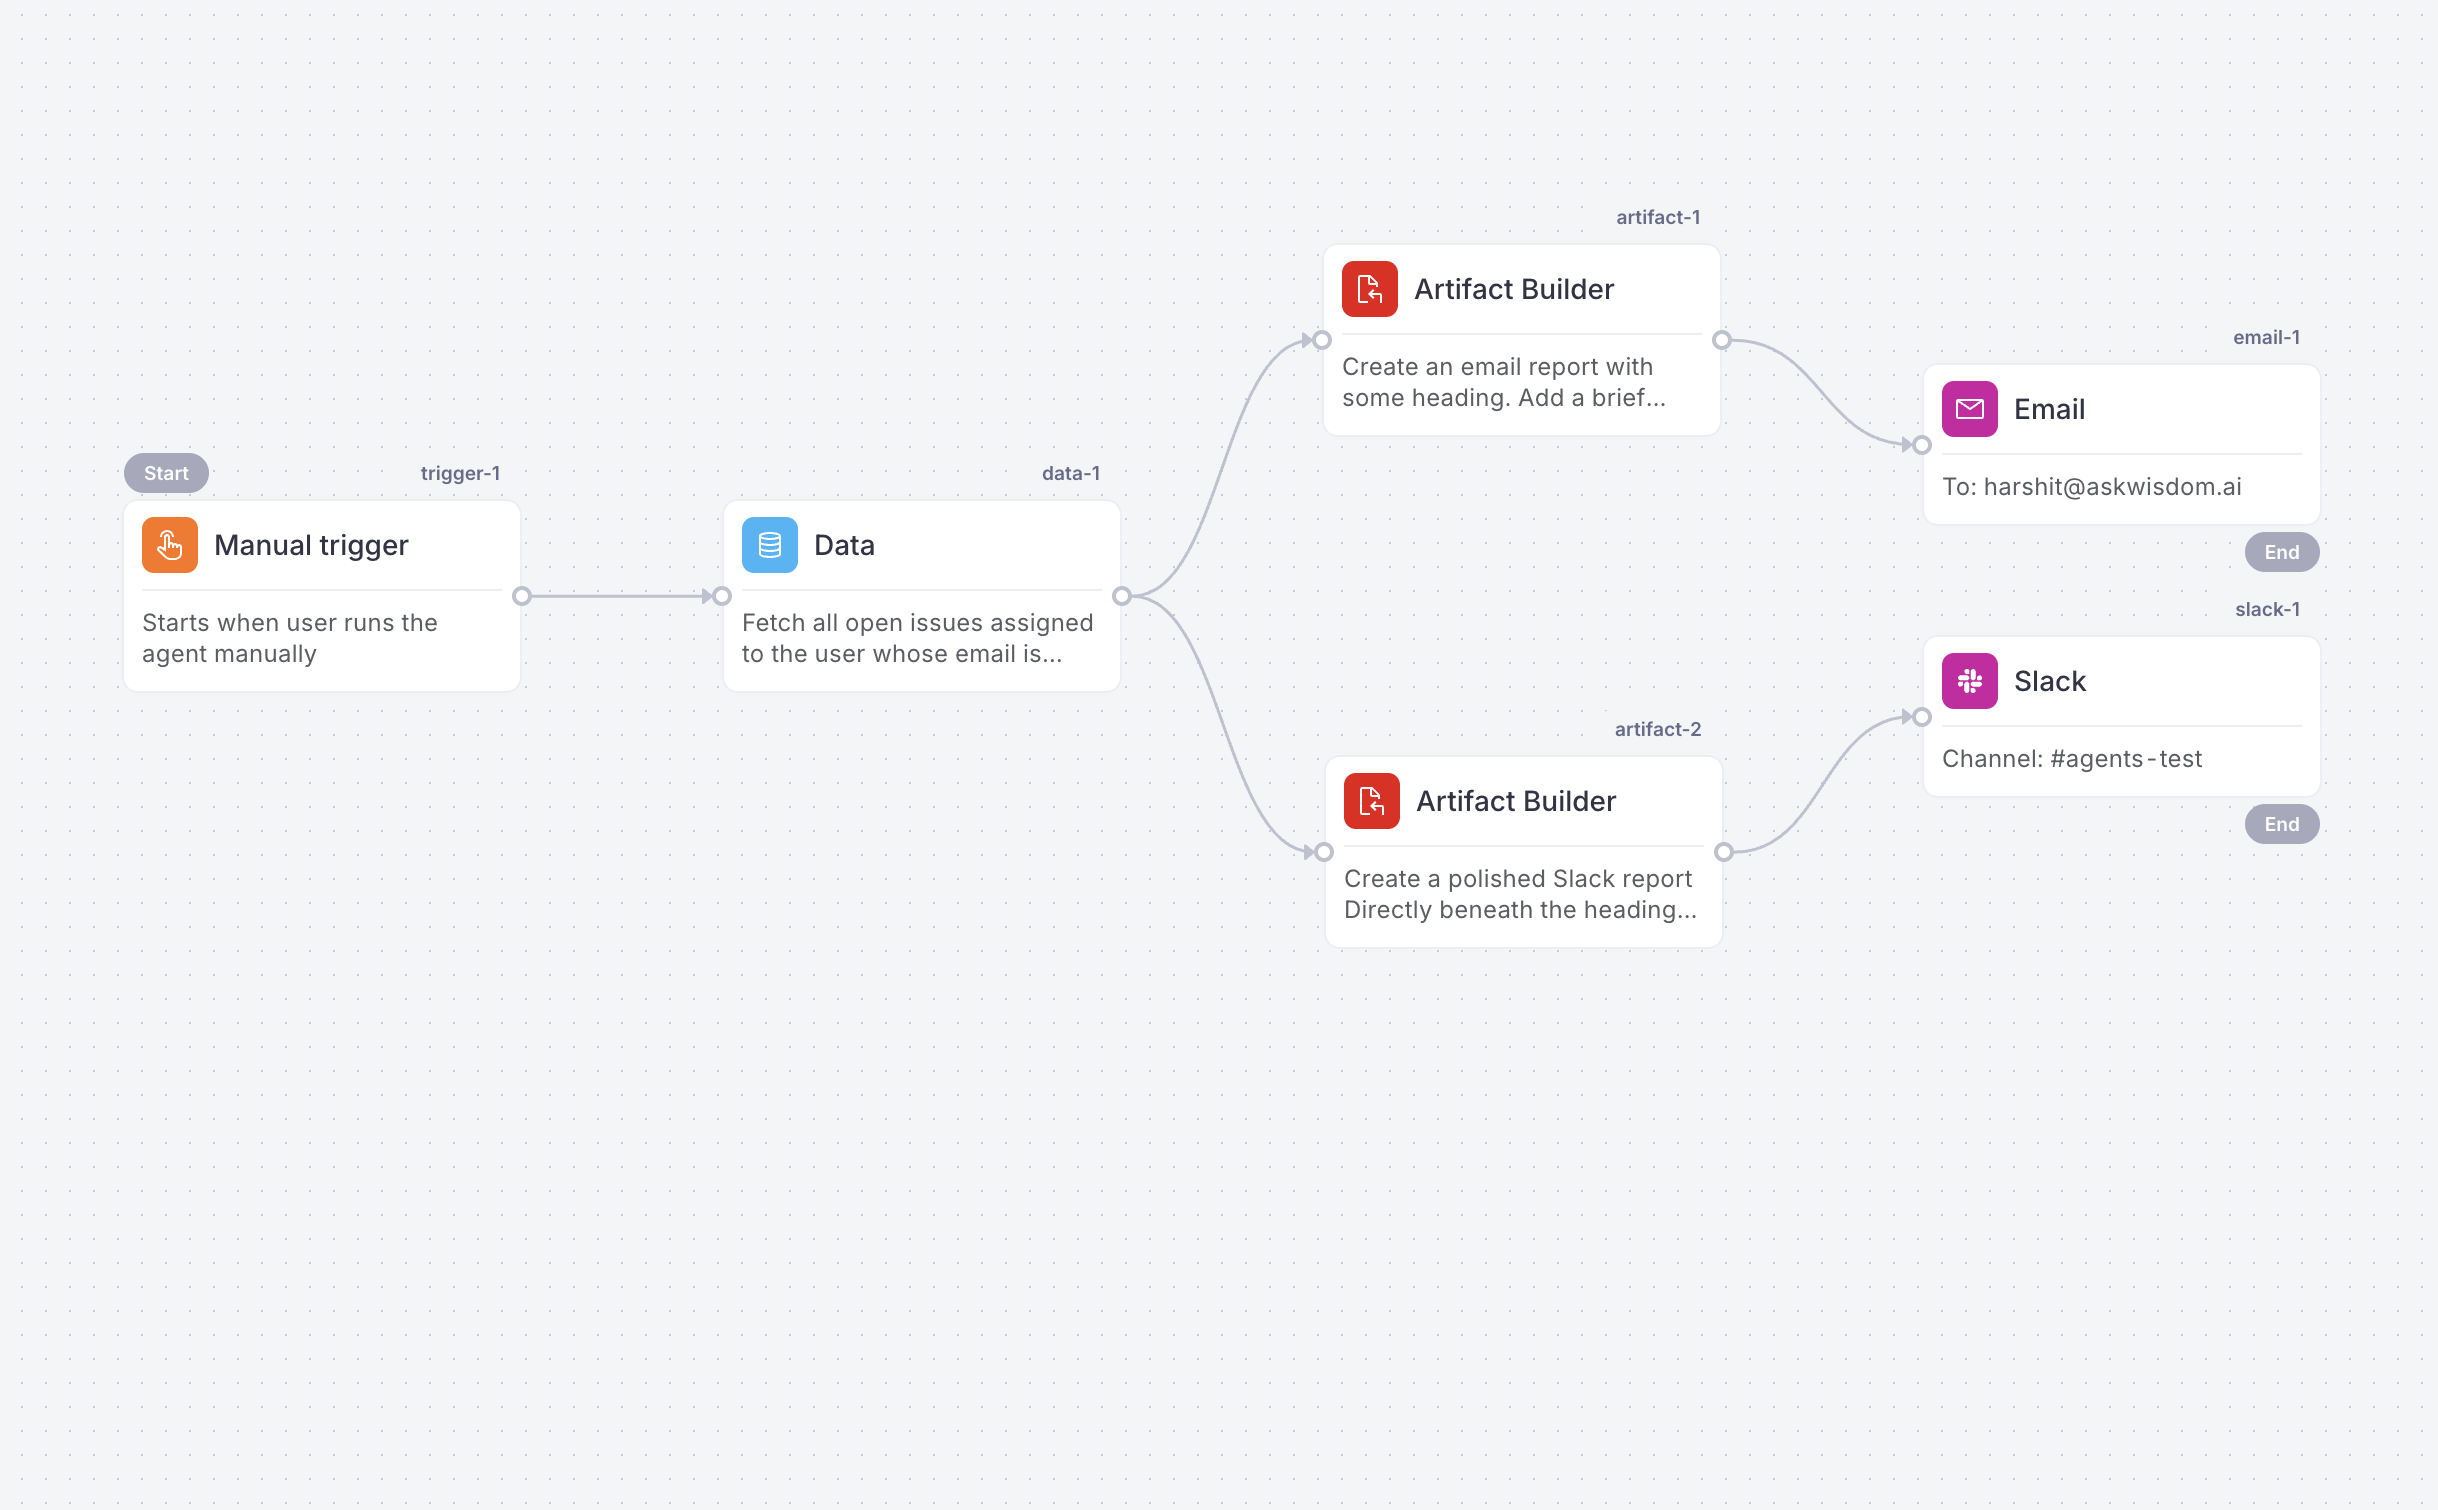
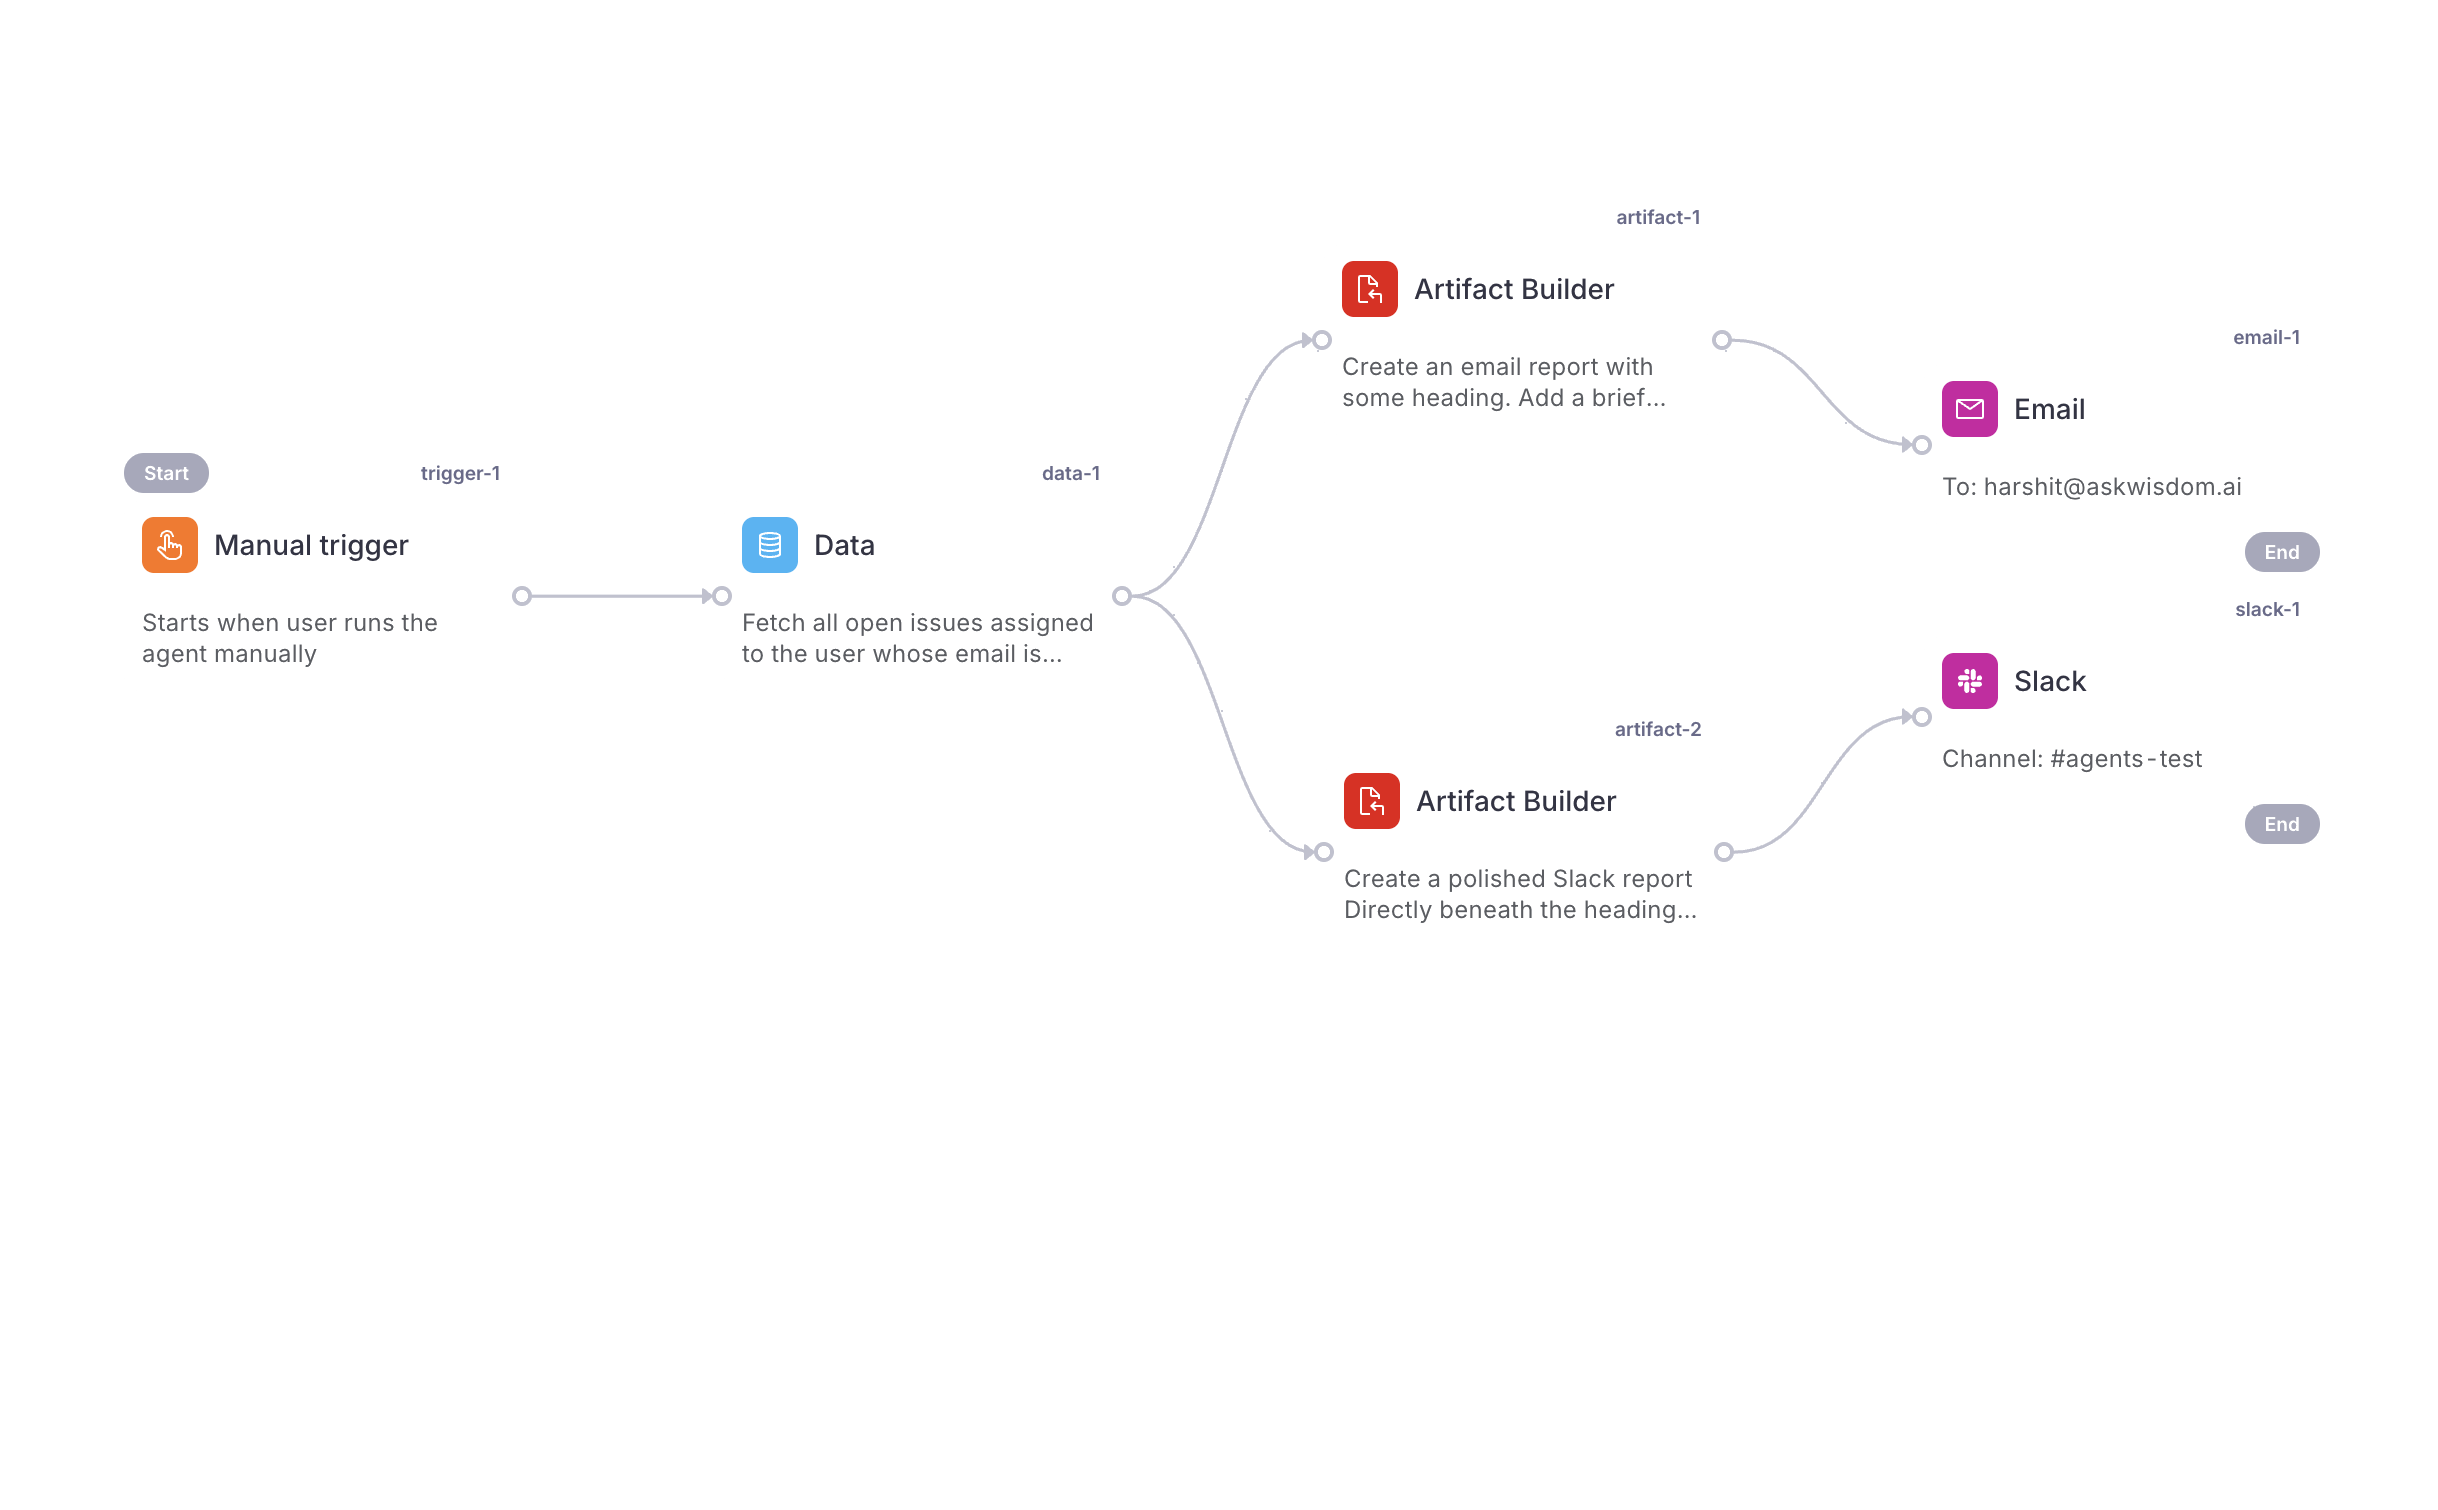
Remove grey canvas bg and dot grid from workflow diagram (transparent PNG)

diff --git a/clicked.html b/clicked.html
@@ -225,7 +225,7 @@
   </div>
   <div class="center">
     <div class="canvas">
-<div style="background-image: url(./diagram.png); background-position: 54.167% 23.867%; background-repeat: no-repeat; background-size: 106.277%; box-sizing: border-box; width: 100%; max-width: 577px; aspect-ratio: 577 / 213"></div>
+<div style="background-image: url(./diagram.png?v=2); background-position: 54.167% 23.867%; background-repeat: no-repeat; background-size: 106.277%; box-sizing: border-box; width: 100%; max-width: 577px; aspect-ratio: 577 / 213"></div>
     </div>
 <div style="background-color: #FFFFFF; border-top-color: #D4D4D4; border-top-style: solid; border-top-width: 0.5px; box-sizing: border-box; height: 476px; overflow-x: auto; overflow-y: clip; width: 712px; position: relative; width: 100%; flex-shrink: 0">
         <div style="align-items: start; box-sizing: border-box; display: flex; left: 0; position: absolute; top: 7.5px">
